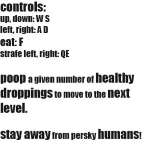
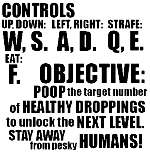
P3: Updated levels and some comments

diff --git a/Projects/project3/js/script.js b/Projects/project3/js/script.js
@@ -10,28 +10,30 @@ By Samuel Paré-Chouinard
 their smells.
 - Avoid humans and fill yer belly!
 
-This game is still prototypical, in that:
+I'm handing in a bit of a work in progress, but at some point you gotta draw
+a line on some details (and finish up your other final projects). This version
+is very playable. Here are a few issues I was working on at the time I'm
+turning this in:
+
 - levels are limited by the 6 musical phrases i created
 - sound works great but sound design was a bit overlooked because of time spent
 on collisions and visuals. sfx not used very extensively, and musical phrases
 were thrown together quickly
 - obstacle collisions are clunky. player gets glued all over the place and
-has to change directions all the time. 
-- late in the process i updated the manner in which collisions were checked,
-in an effort to enhance performance (kind of needed for slow computers like
-my own). Updated only one collision checking function (EnemyObject.lookOut())
+has to change directions all the time.
+- late in the process i tried changing the manner in which collisions were
+checked, in an effort to enhance performance (necessary for slow computers
+like mine). Updated only one collision-checking function (EnemyObject.lookOut())
 in the interest of time, so not everything is as efficient as it could be.
 The old system checks distance to all obstacles, then checks collisions
-with nearby obstacles, while the new system has obstacles, enemies and the
-player organised in rows and columns and checks for collisions only in matching
-rows or columns.
+with nearby obstacles only, while the new system has obstacles, enemies and the
+player organised in rows and columns and checks for collisions only within
+matching rows or columns.
 - texture image files were crunched to tiny sizes also to optimize performance.
-not sure if images could be buffered differently in p5js, but my computer
-was really not a fan of these more hi-res textures which were working fine
+my computer was not a fan of these more hi-res textures which were working fine
 on school computers.
-- i probably missed something but i don't know how to
+- i feel like i probably missed something but i don't know how to
 display text in 3d, so i have objects with text images as texture :)
-- at some point you just gotta draw the line and turn in your project!
 
 this script handles:
 - declaring global variables
@@ -94,7 +96,7 @@ var titleimg, gameoverimg, nextlvlimg, startimg, controlsimg, instructionsimg;
 
 // game settings
 var playerIsFullThreshold = 2;
-var initialHealth =1;
+var initialHealth =7;
 var healthyPoopBonus = 1;
 var unhealthyPoopPenalty = 1;
 var enemyCaughtPlayerPenalty = 1;
@@ -102,12 +104,12 @@ var numEnemies = 0;
 var foodSize= 80;
 var damageToObstacles = foodSize;
 var chanceForFood = 0.5;
-var obstacleDensity = 0.1;
+var obstacleDensity = 0.08;
 var playerSizeIncrease = 3;
 var levelTarget = level+3;
-var minHealthyFood = 10;
+var minHealthyFood = 7;
 
-// start level
+// levels, game states 
 var level =0;
 var levelComplete = false;
 var gameOn = false;

diff --git a/Projects/project3/js/events.js b/Projects/project3/js/events.js
@@ -204,6 +204,7 @@ function newLevel(){
   gameOver = false
 
   // load PLAYER
+  initialHealth +=1;
   player = new MovingObject(0,height/2,3,83,87, 65, 68);
 
   // load ENEMIES
@@ -239,6 +240,7 @@ function newLevel(){
   obstacles = [];
   // a variable to index obstacle position on the grid
   var obstacleindex =0;
+  obstacleDensity += 0.03;
 
   // for each point on the grid
   for (var i=0; i<xobs*yobs; i++){
@@ -255,6 +257,8 @@ function newLevel(){
       obstacleindex +=1;
     }
   }
+
+  minHealthyFood += 3;
   // make sure our random obstacles meet the level's minimum requirement
   while(healthyobs < minHealthyFood){
     var pick = floor(random(obstacles.length));
@@ -298,14 +302,16 @@ function newLevel(){
 // checkgameover()
 //
 // check if player's health has reached 0.
+// resetgame variables
 // prepare and launch game over screen
 
 function checkGameOver(){
 
   if(player.health<0){
-
-    music.stopSound();
-    player.health =initialHealth;
+    // reset
+    initialHealth =7;
+    minHealthyFood = 7;
+    obstacleDensity =0.08;
     displayHealth();
     gameOver = true;
     gameOn = false;

diff --git a/Projects/project3/js/music/Drum.js b/Projects/project3/js/music/Drum.js
@@ -1,6 +1,13 @@
 /*
 Drum.js
 unlike my previous noise drums, this is a drum machine which plays samples.
+i built a beat around 96-frame loop using 4 audio samples. i cut the samples
+as short as possible and converted them from wav to mp3 to save a bit
+of memory.
+
+there's a bit of a polyrhythm going on here. Each voice has a different
+offset (firstKick, firstClap, etc) to make this endless loop a bit more
+interesting.
 
 */
 
@@ -24,16 +31,20 @@ function Drum(){
   this.bellNum =0;
   this.tickNum =0;
 
-  // time of first notes to play
+  // timing of first notes to play (frames)
   this.firstKick =0;
   this.firstClap =84;
   this.firstBell =24;
   this.firstTick =12;
 
-  // rhythm
+  // rhythm (frames until next note)
+  // the third kick has a bit of swing
   this.kickList = [24, 5, 19];
+  // claps divides measure in 3
   this.clapList = [32];
+  // cowbell divides measure in 2
   this.bellList = [48, 48];
+  // tick: first a(n approximated) 5/8 rhythm, then straight 8/8
   this.tickList = [24, 5, 5, 4, 10, 24, 6, 6, 12];
 
   // volume

diff --git a/Projects/project3/js/MenuObject.js b/Projects/project3/js/MenuObject.js
@@ -4,6 +4,8 @@ This script creates a box with a texture image that holds information.
 The box can be resized on click. if the box is an action button,
 it will trigger an action if it is clicked while its size is largest.
 Clicking one box will resize the others.
+
+my cat LOVED seeing these big cubes on the screen. this script is cat-approved.
 */
 
 function MenuObject(x, y, img, isActionObject) {
@@ -44,8 +46,10 @@ function MenuObject(x, y, img, isActionObject) {
 MenuObject.prototype.display = function(){
 
   // increment angle
-  this.angle +=0.03;
+  this.angle +=0.01;
   push();
+  // ambient light
+    ambientLight(190, 210, 185);
   // translate and rotate
   var z = cos(this.angle)*5;
   var x = sin(this.angle)*8;

diff --git a/Projects/project3/index.html b/Projects/project3/index.html
@@ -45,7 +45,7 @@ racoon run!!!
     -->
       <article>
         <section class="displayit"> level <div id="1">0</div></section>
-        <section class="displayit"> objective: <div id="2">0</div> healthy droppings </section>
+        <section class="displayit"> objective: <div id="2">0</div> more healthy poops </section>
         <section class="displayit"><div id="3">0</div> healty food <br> types </section>
         <section class="displayit"><div id="4">0</div> unhealty food <br> types </section>
         <section class="displayit"> enemies <div id="5">0</div></section>
